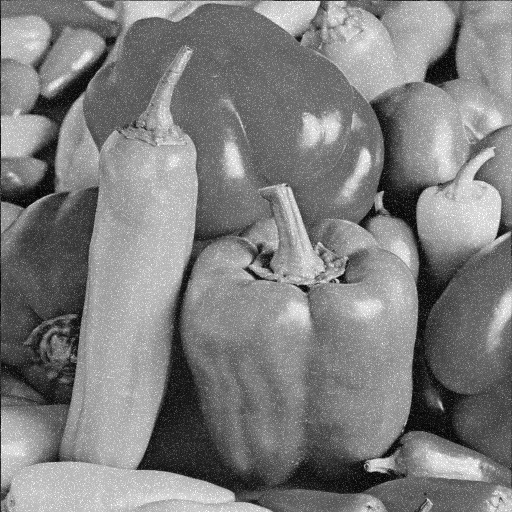
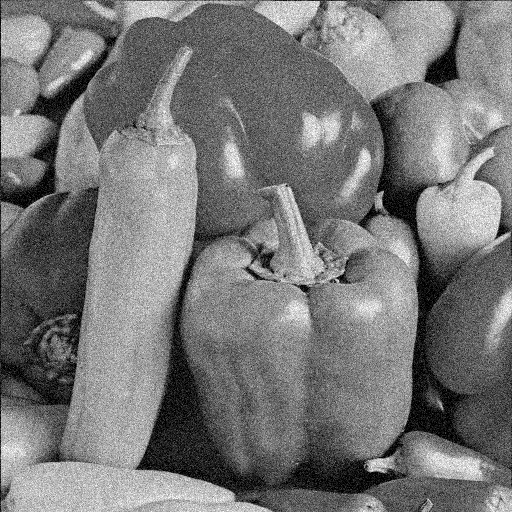
Gaussian Noise update

Changed region(s): [[0.0, 0.0, 1.0, 1.0]]

diff --git a/Main.py b/Main.py
@@ -36,10 +36,12 @@ imgMultiplicative = Noise.addMultiplicativeNoise(imgR)
 io.imsave("ressources/noise/NoiseGaussian.png", imgGaussian)
 io.imsave("ressources/noise/NoiseSalt-Pepper.png", imgSNP)
 io.imsave("ressources/noise/NoiseMultiplicative.png", imgMultiplicative)
-
-""" Filtering images """
-imgSNPFiltre = Filter.medianfilter(imgSNP)
-imgGaussianFiltre = Filter.convolutionfilter(imgGaussian)
-""" Saving filtered images """
-io.imsave("ressources/filter/NoiseSalt-PepperFiltre.png", imgSNPFiltre)
-io.imsave("ressources/filter/NoiseGaussianFilter.png", imgGaussianFiltre)
+# =============================================================================
+# 
+# """ Filtering images """
+# imgSNPFiltre = Filter.medianfilter(imgSNP)
+# imgGaussianFiltre = Filter.convolutionfilter(imgGaussian)
+# """ Saving filtered images """
+# io.imsave("ressources/filter/NoiseSalt-PepperFiltre.png", imgSNPFiltre)
+# io.imsave("ressources/filter/NoiseGaussianFilter.png", imgGaussianFiltre)
+# =============================================================================

diff --git a/Noise.py b/Noise.py
@@ -16,7 +16,6 @@ def addGaussianNoise(img):
     for y in range(noise.shape[1]):
         for x in range(noise.shape[0]):
             noise[y, x] = int(noise[y, x])
-    noise[noise < 0] = 0
     noisy_img = img + noise
     noisy_img[noisy_img < 0] = 0
     noisy_img[noisy_img > 255] = 255
